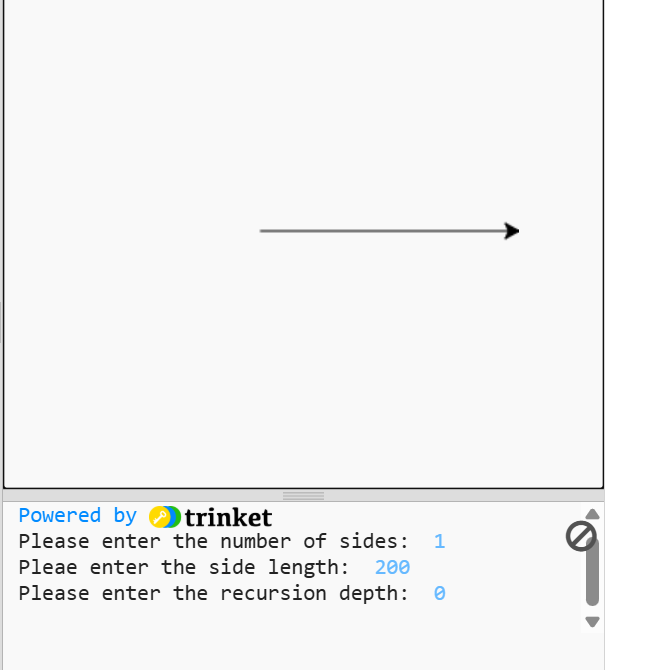
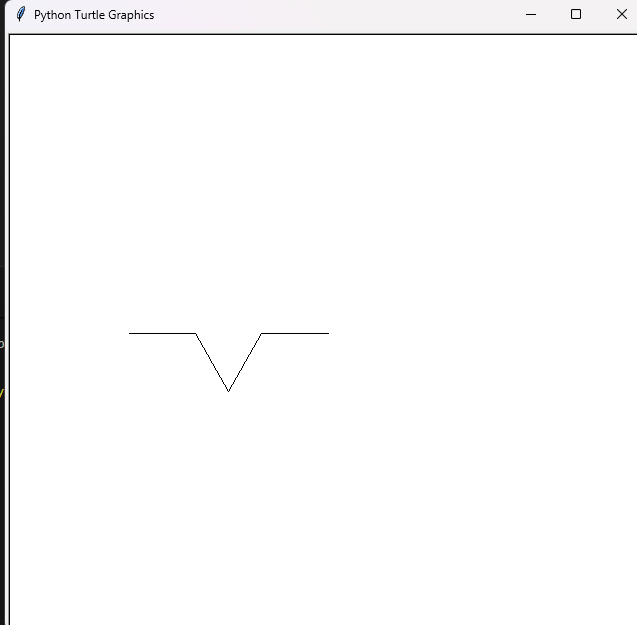
updated redme and images

diff --git a/Assignment_2/question_3.py b/Assignment_2/question_3.py
@@ -24,11 +24,7 @@ s = int(input("Please enter the number of sides: "))
 s_length = int(input("Pleae enter the side length: "))
 depth = int(input("Please enter the recursion depth: "))
 
-t.penup()
-t.goto(-s_length/2,-s_length/2)
-t.setheading(0)
-t.pendown()
-
+t.setheading(180) 
 angle = 360/s
 for i in range(s):
     drawGeometry(s_length,depth)
